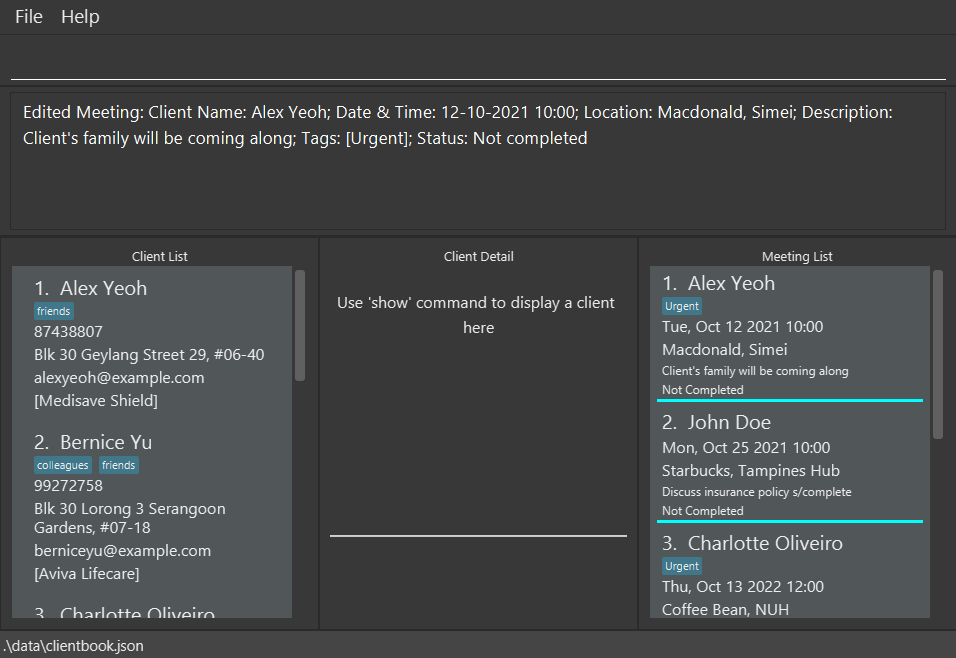
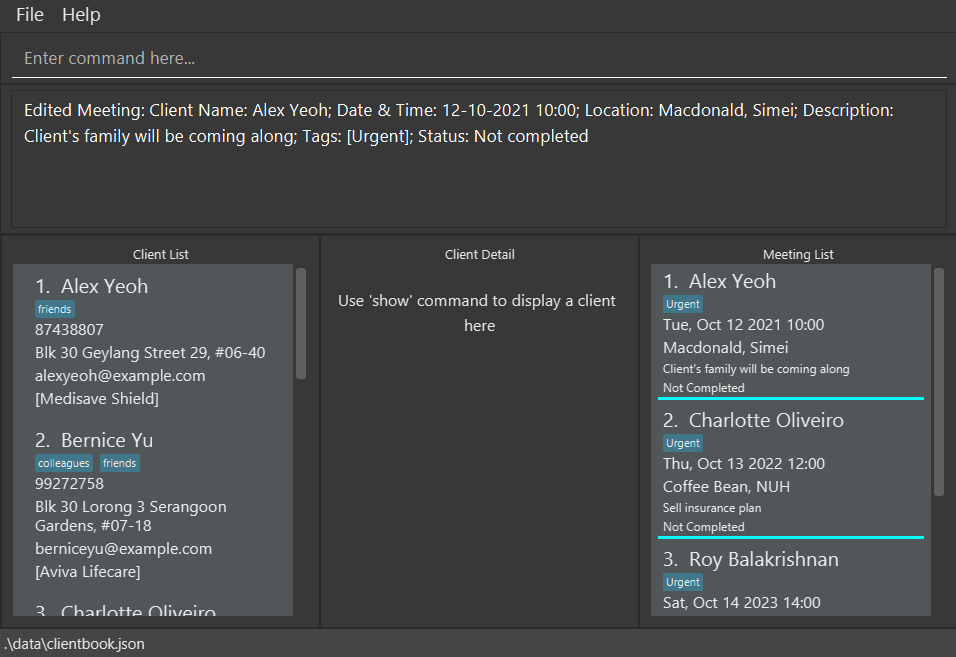
Fix issues in UG and DG

diff --git a/docs/UserGuide.md b/docs/UserGuide.md
@@ -19,7 +19,7 @@ iScam is a **desktop app for insurance agents to manage clients and meetings, op
 1. Copy the file to the folder you want to use as the _home folder_ for your iScam.
 
 1. Double-click the file to start the app. The GUI similar to the below should appear in a few seconds. Note how the app contains some sample data.<br>
-   ![Ui](images/Ui.png)
+   ![Ui](images/UiWithoutActiveClient.png)
 
 1. Type the command in the command box and press Enter to execute it. e.g. typing **`help`** and pressing Enter will open the help window.<br>
    Some example commands you can try:
@@ -159,7 +159,7 @@ Format: `show INDEX`
 Example:
 * `show 1` Shows the details (such as name, phone number, profile picture, insurance, etc) of the first Client on the right panel of the UI
 
-![result for show command](images/UI.png)
+![result for show command](images/Ui.png)
 
 
 #### Editing a client : `edit`

diff --git a/docs/DeveloperGuide.md b/docs/DeveloperGuide.md
@@ -380,10 +380,6 @@ instead.
 
 ![ShowCommand sequence diagram](images/ShowCommandSequenceDiagram.png)
 
-### \[Proposed\] Data archiving
-
-_{Explain here how the data archiving feature will be implemented}_
-
 --------------------------------------------------------------------------------------------------------------------
 
 ## **Documentation, logging, testing, configuration, dev-ops**
